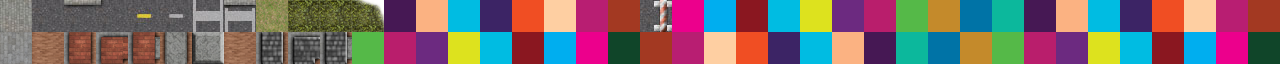
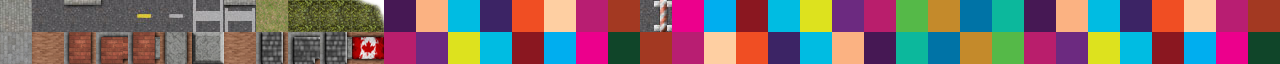
Added a victory flag and removed useless system.out.

Changed region(s): [[0.25, 0.5, 0.3125, 1.0]]

diff --git a/src/map/Map.java b/src/map/Map.java
@@ -57,6 +57,7 @@ public class Map {
 	private Point playerStart;
 	private Point safehouseStart;
 	private Point safehouseEnd;
+	private Point flagLocation;
 
 	private ArrayList<Item> items;
 	private ArrayList<Item> itemSpawns;
@@ -415,7 +416,7 @@ public class Map {
 		// Generates the safehouse
 		generateSafeBuilding(new Point((int) start.getX() + boxWidth / 3,
 				(int) start.getY() + boxHeight / 3), new Point((int) end.getX()
-				- boxWidth / 3, (int) end.getY() - boxHeight / 3), Direction.UP);
+				- boxWidth / 3, (int) end.getY() - boxHeight / 3), Direction.UP, isStart);
 
 		int playerX;
 		int playerY;
@@ -533,7 +534,7 @@ public class Map {
 	 * @param start
 	 * @param end
 	 */
-	public void generateSafeBuilding(Point start, Point end, Direction direction) {
+	public void generateSafeBuilding(Point start, Point end, Direction direction, boolean isStart) {
 		int boxWidth = (int) (Math.abs(end.getX() - (start.getX())));
 		int boxHeight = (int) (Math.abs(end.getY() - (start.getY())));
 
@@ -580,8 +581,6 @@ public class Map {
 				new Point((int) start.getX() + 2, (int) start.getY() + 2),
 				new Point((int) end.getX() - 2, (int) end.getY() - 2),true);
 		
-		int doorLocation;
-		
 		if (direction == Direction.UP || direction == Direction.DOWN) {
 			setTile((int) start.getX() + 4,
 					(int) start.getY() + 1, 207, Direction.UP, false);
@@ -598,6 +597,28 @@ public class Map {
 			
 			setTile((int) start.getX() + 1, (int) end.getY() - 4, 207, Direction.UP, false);
 			setTile((int) start.getX() + 1, (int) end.getY() - 5, 207, Direction.UP, false);
+		}
+		
+		//Spawns the victory flag
+		if (!isStart){
+			int corner = (int)Math.floor((Math.random()*4));
+			
+			if (corner == 0){
+				setTile((int) start.getX() + 2, (int) start.getY()+2, 211, Direction.DOWN, false);
+				flagLocation = new Point((int) start.getX() + 2, (int) start.getY()+2);
+			}
+			else if (corner == 1){
+				setTile((int) start.getX() + 2, (int) end.getY()-2, 211, Direction.DOWN, false);
+				flagLocation = new Point((int) start.getX() + 2, (int) end.getY()-2);
+			}
+			else if (corner == 2){
+				setTile((int) end.getX() - 2, (int) start.getY()+2, 211, Direction.DOWN, false);
+				flagLocation = new Point((int) end.getX() - 2, (int) start.getY()+2);
+			}
+			else if (corner == 3){
+				setTile((int) end.getX() -2, (int) end.getY()-2, 211, Direction.DOWN, false);
+				flagLocation = new Point((int) end.getX() -2, (int) end.getY()-2);
+			}
 		}
 
 	}
@@ -1255,6 +1276,13 @@ public class Map {
 	 */
 	public Point getSafehouseEnd(){
 		return safehouseEnd;
+	}
+	
+	/**
+	 * @return The location of the flag
+	 */
+	public Point getFlagLocation(){
+		return flagLocation;
 	}
 
 	/**

diff --git a/src/entities/Player.java b/src/entities/Player.java
@@ -123,7 +123,6 @@ public class Player extends Mob {
 
 		g2D.rotate(angle, position.getX() - camera.getxOffset() + 16, position.getY() - camera.getyOffset() + 16);
 		if (this.getItem(selectedItemNumber) != null){
-			System.out.println(selectedItem);
 		if (selectedItem instanceof Firearm)
 			g2D.drawImage(selectedItem.getImages()[2], (int) (this.getPosition().x - camera.getxOffset()+10),
 					(int) (this.getPosition().y - camera.getyOffset()-10), null);
